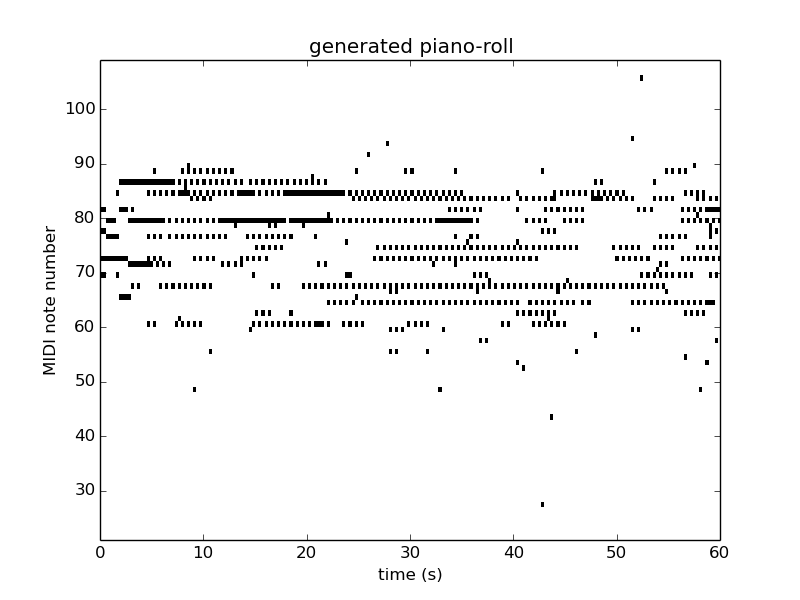
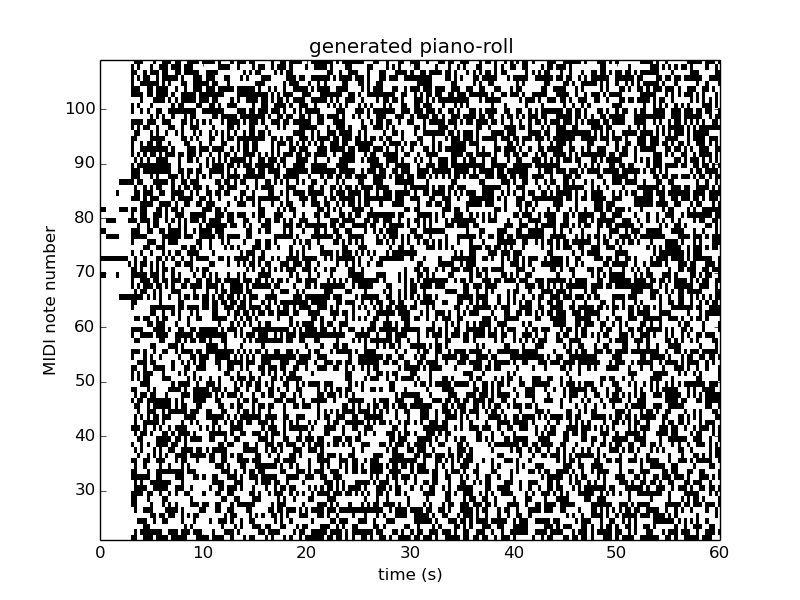
progress

Changed region(s): [[0.1562, 0.09, 0.9062, 0.9]]

diff --git a/musicbot/RNN/SGRNN.py b/musicbot/RNN/SGRNN.py
@@ -1,2 +1,126 @@
-def evolution_step(p, mask):
-    return p, mask
+import theano
+import theano.tensor as T
+import numpy as np
+
+
+def evolution_step(p, mask, validation_set):
+    sgrnn = SGRNNStep(p, mask, validation_set)
+    return sgrnn.run()
+
+
+class SGRNNStep:
+    def __init__(self, p, mask, validation_set):
+        self.p = [self.Wx, self.whh, self.Wy, self.bh, self.by, self.h0] = p
+        self.mask = mask
+        print " shape of the mask : ", self.mask.shape
+        self.validation_set = validation_set
+        self.whh_copy = np.array(self.whh, dtype=theano.config.floatX)
+        self.rnn = SimpleRNN(p, mask)
+
+    def preliminary_calculation(self):
+        scores = []
+        for i in range(self.whh.shape[0]):
+            print i
+            self.brain_deletion([i])
+            self.rnn.set_whh(self.whh)
+            scores.append(self.rnn.get_score(self.validation_set))
+        self.scores = np.array(scores)
+        self.scores = self.scores - np.min(self.scores)
+        self.whh = self.whh_copy
+        print self.scores
+            
+    def brain_deletion(self, l):   
+        self.whh = np.array(self.whh_copy)
+        for i in l:
+#delete row
+            self.whh[i] = 0
+#delete column
+            self.whh[:, i] = 0
+
+    def selection(self, k=5):
+        ind = sorted(range(self.whh.shape[0]), key=lambda i: self.scores[i])[:-k]
+        self.whh = self.whh[ind][:, ind]
+        self.mask = self.mask[ind][:, ind]
+
+        self.Wx = self.Wx[:, ind]
+        self.Wy = self.Wy[ind]
+        self.bh = self.bh[ind]
+        self.h0 = self.h0[ind]
+
+        print self.mask.shape, self.whh.shape
+
+
+
+    def cross_over(self, k=10):
+        ind = sorted(range(self.whh.shape[0]), key=lambda i: self.scores[i])[:k]
+        for i in ind:
+            self.insert_in_model(i)
+
+    def insert_in_model(self, i):
+        #insert in whh
+        self.whh = np.array(np.hstack([self.whh, np.matrix(self.whh[:, i]).T]))  # TODO noise
+        self.whh[i] = 0.5 * self.whh[i]  # TODO add noise
+        self.whh = np.vstack([self.whh, self.whh[i]])  # TODO add noise
+
+        self.mask = np.vstack([self.mask, self.mask[i]])
+        self.mask = np.array(np.hstack([self.mask, np.matrix(self.mask[:, i]).T]))
+
+        self.Wx = np.array(np.hstack([self.Wx, np.matrix(self.Wx[:, i]).T])) 
+        self.bh = np.hstack([self.bh, self.bh[i]]) 
+        self.h0 = np.hstack([self.h0, self.h0[i]])
+
+        self.Wy[:, i] = 0.5 * self.Wy[:, i]  
+        self.Wy = np.array(np.vstack([self.Wy, self.Wy[i]])) 
+
+        self.p = [self.Wx, self.whh, self.Wy, self.bh, self.by, self.h0]
+
+    def run(self):
+        self.preliminary_calculation()
+        self.selection()
+        self.cross_over()
+        return self.p, self.mask
+
+
+class SimpleRNN:
+    def __init__(self, p_init, mask):
+        [Wx, Wh, Wy, bh, by, h0] = p_init
+        for i in p_init:
+                print i.shape, i.dtype
+
+        print mask.shape, mask.dtype
+        raw_input()
+
+        Wx = theano.shared(Wx).astype(theano.config.floatX)
+        self.Wh = theano.shared(Wh).astype(theano.config.floatX)
+        Wy = theano.shared(Wy).astype(theano.config.floatX)
+        bh = theano.shared(bh).astype(theano.config.floatX)
+        by = theano.shared(by).astype(theano.config.floatX)
+        h0 = theano.shared(h0).astype(theano.config.floatX)
+        p = [Wx, Wh, Wy, bh, by, h0]
+        x = T.matrix()
+
+        def recurrence(x_t, h_tm1):
+            ha_t = T.dot(x_t, Wx) + T.dot(h_tm1, Wh * mask) + bh
+            h_t = T.tanh(ha_t)
+            s_t = T.dot(h_t, Wy) + by
+            return [ha_t, h_t, s_t]
+
+        ([ha, h, activations], updates) = theano.scan(fn=recurrence, sequences=x[:-1], outputs_info=[dict(), h0, dict()])
+
+        h = T.tanh(ha)  # so it is differentiable with respect to ha
+        t = x[-1, :]
+        s = activations[-1, :]
+        y = T.nnet.sigmoid(s)
+        loss = -t*T.log(y + 1e-14) - (1-t)*T.log((1-y) + 1e-14)
+        acc = T.neq(T.round(y), t)
+        self.f_cost = theano.function([x], T.mean(loss), on_unused_input='ignore')  # for quick cost evaluation
+        self.p, self.inputs,  self.s, self.costs, self.h, self.ha = p, [x], s, [T.mean(loss), T.mean(acc)], h, ha
+    
+    def set_whh(self, whh):
+        self.Wh.set_value(whh)
+
+    def get_score(self, valid_dataset):
+        res = np.mean([self.f_cost(*i) for i in valid_dataset.iterate()], axis=0)
+        return res
+
+

diff --git a/musicbot/train_midi.py b/musicbot/train_midi.py
@@ -62,18 +62,17 @@ class MusicBrain:
 
         hf_optimizer(self.p, self.inputs, self.s, self.costs, 0.5*(self.h + 1), self.ha).train(self.gradient_dataset, self.cg_dataset, initial_lambda=0.5, mu=1.0, preconditioner=False, validation=self.valid_dataset, plot_cost_file="plot_cost_music.pkl", num_updates=2000, save_callback=self.save)
 
-
     def train_SGRNN(self):
         self.simple_RNN(20, self.r[1] - self.r[0])
-        self.mask = numpy.ones((20,20), dtype=theano.config.floatX)
+        self.mask = numpy.ones((20, 20), dtype=theano.config.floatX)
 
         for i in range(10):
-            hf_optimizer(self.p, self.inputs, self.s, self.costs, 0.5*(self.h + 1), self.ha).train(self.gradient_dataset, self.cg_dataset, initial_lambda=0.5, mu=1.0, preconditioner=False, validation=self.valid_dataset, plot_cost_file="plot_cost_music.pkl", num_updates=3, save_callback=self.save)
-            self.p, self.mask = evolution_step([i.get_value() for i in self.p], self.mask)
+            #hf_optimizer(self.p, self.inputs, self.s, self.costs, 0.5*(self.h + 1), self.ha).train(self.gradient_dataset, self.cg_dataset, initial_lambda=0.5, mu=1.0, preconditioner=False, validation=self.valid_dataset, plot_cost_file="plot_cost_music.pkl", num_updates=3, save_callback=self.save)
+            self.p, self.mask = evolution_step([i.get_value() for i in self.p], self.mask, self.valid_dataset)
             self.simple_RNN(self, 0, 0, p_init=self.p, mask_whh=self.mask)
 
         #fine tunning
-        hf_optimizer(self.p, self.inputs, self.s, self.costs, 0.5*(self.h + 1), self.ha).train(self.gradient_dataset, self.cg_dataset, initial_lambda=0.5, mu=1.0, preconditioner=False, validation=self.valid_dataset, plot_cost_file="plot_cost_music.pkl", num_updates=3, save_callback=self.save)
+        hf_optimizer(self.p, self.inputs, self.s, self.costs, 0.5*(self.h + 1), self.ha).train(self.gradient_dataset, self.cg_dataset, initial_lambda=0.5, mu=1.0, preconditioner=False, validation=self.valid_dataset, plot_cost_file="plot_cost_music.pkl", num_updates=1, save_callback=self.save)
 
 
 # single-layer recurrent neural network with sigmoid output, only last time-step output is significant
@@ -87,6 +86,7 @@ class MusicBrain:
             by = theano.shared(by).astype(theano.config.floatX)
             h0 = theano.shared(h0).astype(theano.config.floatX)
             p = [Wx, Wh, Wy, bh, by, h0]
+            
 
         elif load_file is None:
             Wx = theano.shared(0.2 * numpy.random.uniform(-1.0, 1.0, (n_in, nh)).astype(theano.config.floatX))
@@ -101,7 +101,6 @@ class MusicBrain:
             with open(load_file, 'r') as f:
                 p = [Wx, Wh, Wy, bh, by, h0] = cPickle.load(f)
         x = T.matrix()
-
 
         def recurrence(x_t, h_tm1):
             if mask_whh is not None:
